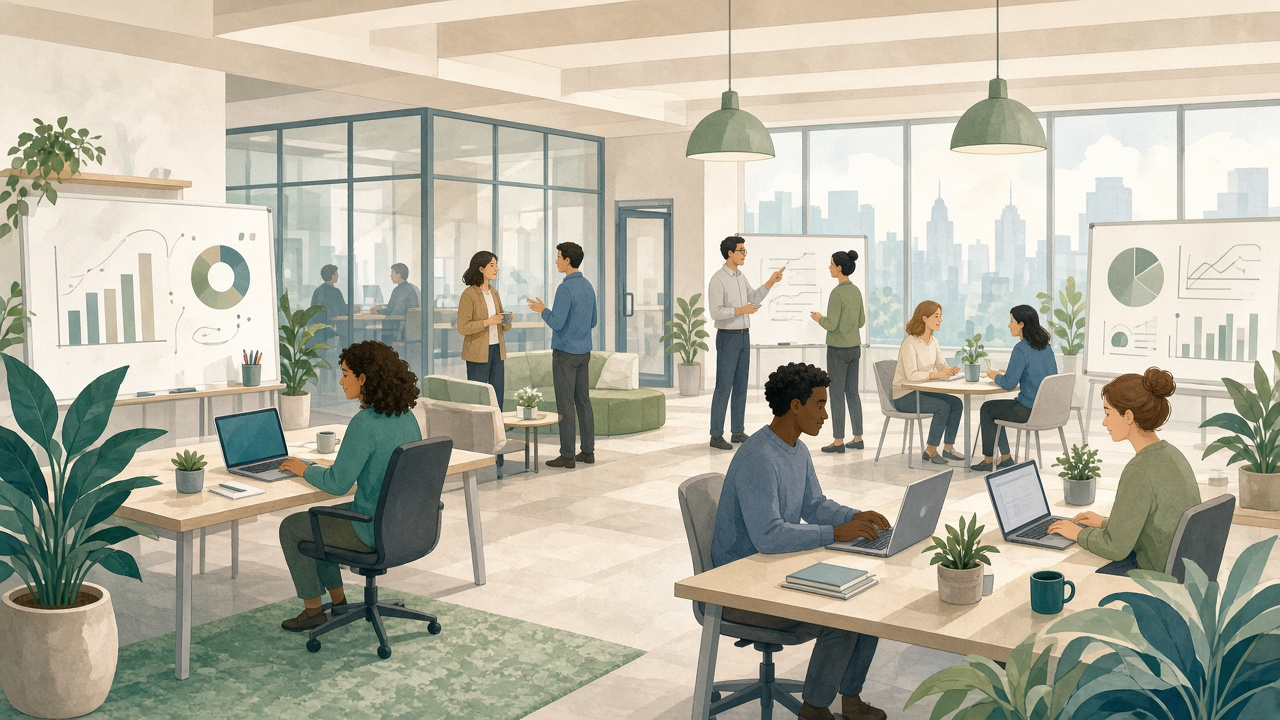
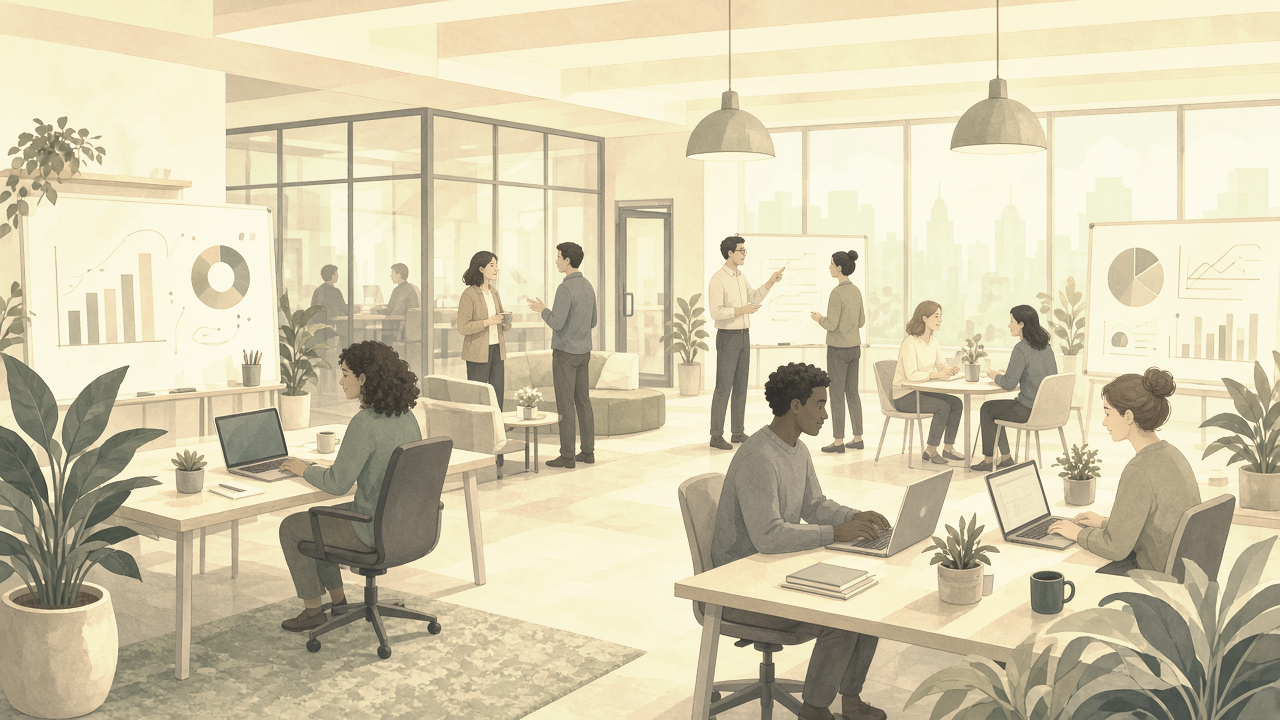
Serve the custom domain from the site root and shift the visual system onto the AetherForge parchment palette so styles, links, and panels load in the same family as the hub.

diff --git a/apps/web/src/styles/global.css b/apps/web/src/styles/global.css
@@ -1,16 +1,26 @@
-/* Visual system adapted from JobFitAndApplicationAssistant:
-   teal accent, Source Serif display, cool office wash, workspace cards. */
+/* Visual system aligned with AetherForge: parchment field, bronze line, teal accent. */
 :root {
   --brand: #0f4c5c;
   --brand-deep: #0c3d4a;
   --ink: #152028;
   --ink-soft: #2c3d47;
   --mute: #5a6b76;
-  --line: #c5d0d6;
-  --paper: #ffffff;
-  --wash: #e8eef1;
-  --wash-warm: #eef3f5;
-  --hero-wash: linear-gradient(180deg, rgba(238, 243, 245, 0.7) 0%, rgba(232, 238, 241, 0.62) 45%, rgba(227, 235, 231, 0.74) 100%);
+  --line: #d8c4aa;
+  --paper: #f6ead8;
+  --paper-raised: #fff6e8;
+  --paper-sunk: #efe2cc;
+  --wash: #f6ead8;
+  --wash-warm: #ecdcc4;
+  --panel: rgba(246, 234, 216, 0.92);
+  --panel-bar: rgba(246, 234, 216, 0.9);
+  --hero-wash: linear-gradient(
+    90deg,
+    rgba(246, 234, 216, 0.22) 0%,
+    rgba(246, 234, 216, 0.84) 14%,
+    rgba(246, 234, 216, 0.9) 50%,
+    rgba(246, 234, 216, 0.84) 86%,
+    rgba(246, 234, 216, 0.22) 100%
+  );
   --hero-glow: none;
   --accent: var(--brand);
   --accent-deep: var(--brand-deep);
@@ -98,7 +108,7 @@ main,
   top: 0;
   z-index: 20;
   min-height: var(--header-h);
-  background: rgba(238, 243, 245, 0.86);
+  background: var(--panel-bar);
   border-bottom: 1px solid color-mix(in srgb, var(--line) 80%, transparent);
   backdrop-filter: blur(12px);
 }
@@ -196,9 +206,11 @@ main,
 .brand-logo {
   width: 2.15rem;
   height: 2.15rem;
-  border-radius: 0.4rem;
+  border-radius: 0.55rem;
   object-fit: cover;
   flex-shrink: 0;
+  background: #e6ca98;
+  box-shadow: 0 0 0 1px #b89260;
 }
 
 .site-header .brand:hover .brand-name {
@@ -242,7 +254,7 @@ main.wide {
   margin: 0;
   padding: 2rem clamp(1rem, 4vw, 2.5rem);
   border-top: 1px solid var(--line);
-  background: rgba(238, 243, 245, 0.86);
+  background: var(--panel-bar);
   backdrop-filter: blur(12px);
   font-family: var(--font-body);
   font-size: 0.85rem;
@@ -302,7 +314,7 @@ h3 {
   width: 100%;
   padding: 1.5rem 1.75rem 1.65rem;
   text-align: left;
-  background: rgba(255, 255, 255, 0.85);
+  background: var(--panel);
   border: 1px solid var(--line);
   border-radius: 0.75rem;
   box-shadow: var(--shadow-soft);
@@ -329,7 +341,7 @@ h3 {
 }
 
 .content-panel {
-  background: rgba(255, 255, 255, 0.85);
+  background: var(--panel);
   border: 1px solid var(--line);
   border-radius: 0.75rem;
   box-shadow: var(--shadow-soft);
@@ -374,13 +386,13 @@ h3 {
 }
 
 .btn-ghost {
-  background: #fff;
+  background: var(--paper);
   color: var(--ink);
   border-color: var(--line);
 }
 
 .btn-ghost:hover {
-  background: color-mix(in srgb, var(--line) 22%, white);
+  background: color-mix(in srgb, var(--line) 28%, var(--paper));
   border-color: var(--line);
   color: var(--ink);
 }
@@ -468,7 +480,7 @@ h3 {
 
 .page-stack {
   margin-top: 0;
-  background: rgba(255, 255, 255, 0.85);
+  background: var(--panel);
   border: 1px solid var(--line);
   border-radius: 0.75rem;
   box-shadow: var(--shadow-soft);
@@ -536,7 +548,7 @@ h3 {
   max-width: 100%;
   margin: 1.25rem 0 1rem;
   padding: 0.25rem;
-  background: rgba(255, 255, 255, 0.55);
+  background: rgba(246, 234, 216, 0.55);
   border: 1px solid var(--line);
   border-radius: 0.5rem;
 }
@@ -560,7 +572,7 @@ h3 {
 
 .tab[aria-selected="true"] {
   color: var(--ink);
-  background: #fff;
+  background: var(--paper-raised);
   box-shadow: 0 1px 2px rgba(21, 32, 40, 0.08);
 }
 
@@ -577,7 +589,7 @@ h3 {
 
 .primer-card {
   padding: 1.15rem 1.2rem 1.25rem;
-  background: #f7f9fb;
+  background: var(--paper-sunk);
   border: 1px solid var(--line);
   border-radius: 4px;
 }
@@ -621,7 +633,7 @@ h3 {
 .scenario-col {
   min-width: 0;
   padding: 1rem;
-  background: #f7f9fb;
+  background: var(--paper-sunk);
   border: 1px solid var(--line);
   border-radius: 4px;
 }
@@ -633,7 +645,7 @@ h3 {
 .sut-block {
   margin-bottom: 1.25rem;
   padding: 1rem;
-  background: #f7f9fb;
+  background: var(--paper-sunk);
   border: 1px solid var(--line);
   border-radius: 4px;
 }
@@ -681,8 +693,8 @@ h3 {
 
 .status-missing {
   color: var(--mute);
-  border-color: #cfcfcf;
-  background: #fff;
+  border-color: var(--line);
+  background: var(--paper);
 }
 
 .toolbar {
@@ -715,7 +727,7 @@ h3 {
   margin-top: 1rem;
   padding: 1rem 0 0;
   color: var(--mute);
-  border-top: 1px dashed #cfd6dd;
+  border-top: 1px dashed var(--line);
 }
 
 .ask-box {
@@ -732,7 +744,7 @@ h3 {
   font-size: 1.05rem;
   padding: 1rem 1.1rem;
   color: var(--ink);
-  background: #fff;
+  background: var(--paper-raised);
   border: 1px solid var(--line);
   border-radius: var(--radius);
   resize: vertical;
@@ -777,7 +789,7 @@ h3 {
   font-family: var(--font-body);
   font-size: 0.85rem;
   font-weight: 500;
-  background: rgba(255, 255, 255, 0.7);
+  background: rgba(246, 234, 216, 0.7);
   color: var(--ink);
   border: 1px solid var(--line);
   padding: 0.4rem 0.7rem;
@@ -789,7 +801,7 @@ h3 {
 .chip:hover {
   border-color: var(--brand);
   color: var(--brand);
-  background: #fff;
+  background: var(--paper-raised);
 }
 
 .local-steps {
@@ -1058,7 +1070,7 @@ h3 {
   overflow-x: auto;
   border: 1px solid var(--line);
   border-radius: 0.65rem;
-  background: color-mix(in srgb, #fff 70%, var(--wash));
+  background: var(--panel);
 }
 
 .diagram-frame .mermaid {
@@ -1129,6 +1141,12 @@ h3 {
 }
 
 @media (max-width: 640px) {
+  .page-bg {
+    background-image:
+      linear-gradient(180deg, rgba(246, 234, 216, 0.86) 0%, rgba(236, 220, 196, 0.8) 100%),
+      var(--page-bg-image);
+  }
+
   .scenario-list a,
   .release-list a,
   .gate-list li {

diff --git a/apps/web/src/lib/release.ts b/apps/web/src/lib/release.ts
@@ -9,6 +9,24 @@ export type Release = {
 /** Newest first. Header shows RELEASES[0]; bump + prepend on every merge to main. */
 export const RELEASES: Release[] = [
   {
+    version: "0.4.3",
+    date: "2026-10-03",
+    title: "Parchment palette shared with AetherForge",
+    notes: [
+      "The logo uses the AetherForge parchment tile and dark bronze mark instead of crimson and white.",
+      "The page background and the panels behind text use the same parchment field as AetherForge.",
+    ],
+  },
+  {
+    version: "0.4.2",
+    date: "2026-10-03",
+    title: "Custom domain serves the site root",
+    notes: [
+      "Styles, the logo, and in-app links load on https://test-play-ground.aathira-services.com.",
+      "The production build no longer prefixes URLs with /TestingRosettaStone. A custom domain serves this project site at the domain root, so that prefix returned 404s.",
+    ],
+  },
+  {
     version: "0.4.1",
     date: "2026-10-02",
     title: "Review agent for maintainers",

diff --git a/apps/web/src/lib/base.ts b/apps/web/src/lib/base.ts
@@ -1,4 +1,4 @@
-/** Prefix a site-root path with Astro's base (needed for GitHub project Pages). */
+/** Prefix a site-root path with Astro's base. Production uses `/`. */
 export function withBase(path = "") {
   const base = import.meta.env.BASE_URL || "/";
   const normalizedBase = base.endsWith("/") ? base : `${base}/`;

diff --git a/docs/plan/ARCHITECTURE.md b/docs/plan/ARCHITECTURE.md
@@ -141,7 +141,7 @@ TDD (`unit.tdd-red-green`) and BDD (`unit.bdd-given-when-then`) always ship stor
 7. `GET /architecture` — `loadArchitecture()` over this file’s logical and physical sections.
 8. `GET /releases` and `/releases/{version}` — comments from `apps/web/src/lib/release.ts`.
 
-Production URLs sit under `/TestingRosettaStone` (`GITHUB_PAGES=1`). `withBase()` prefixes every in-app link.
+Production URLs are rooted at https://test-play-ground.aathira-services.com (`GITHUB_PAGES=1` sets `site`; `base` is `/`). `withBase()` prefixes every in-app link.
 
 ## UI design
 
@@ -149,14 +149,14 @@ Custom CSS — not a third-party kit.
 
 | Token | Value |
 |-------|--------|
-| Background | `#e8eef1` + wash over `/images/office-bg.png` (cover, fixed, center top) |
+| Background | `#f6ead8` parchment veil over a warm `/images/office-bg.png` (cover, fixed, center top) |
 | Ink / muted | `#152028` / `#5a6b76` |
 | Accent / hover | `#0f4c5c` / `#0c3d4a` |
-| Line | `#c5d0d6` |
+| Line | `#d8c4aa` |
 | Display / body | Source Serif 4 / Source Sans 3 (Google Fonts) |
 | Mono | IBM Plex Mono |
-| Cards | `white/85`, 12px radius, soft shadow, light backdrop blur |
-| Header | Sticky, `rgba(238,243,245,0.86)`, blur; Scenarios, Ask AI, Vision, Architecture, Quality, Run locally; release chip |
+| Cards | `rgba(246,234,216,0.92)`, 12px radius, soft shadow, light backdrop blur |
+| Header | Sticky, `rgba(246,234,216,0.9)`, blur; Scenarios, Ask AI, Vision, Architecture, Quality, Run locally; release chip |
 
 Layout: content max ~48rem; scenario pages can go wide (~64rem).
 
@@ -185,7 +185,7 @@ There is no live `/api/run`. A red example fails the job; a missing results arti
 ## Deployment
 
 - **Local:** `npm install`, Playwright Chromium, k6, `pip install pytest httpx pytest-bdd`, then `npm run dev` on port 4321
-- **Production:** GitHub Pages from the `apps/web/dist` artifact (`site` + `base` set when `GITHUB_PAGES=1`)
+- **Production:** GitHub Pages from the `apps/web/dist` artifact. `GITHUB_PAGES=1` sets `site` to the custom domain; `base` stays `/` because that domain serves the project site at its root. `apps/web/public/CNAME` keeps the domain on each deploy.
 - No application database. The hosted site is a snapshot of the last green `main` build.
 
 ## Design decisions

diff --git a/README.md b/README.md
@@ -39,7 +39,7 @@ Absolute path if you use that folder:
 | AI | Corpus FAQ + scenario keyword matcher (no API key) |
 | Results panel | CI-cached stdout/stderr beside each scenario (`npm run capture:results`) |
 | CI | GitHub Actions (Node 24): validate, `npm test` (unit + HTTP + UX + perf + security), capture results, build — explained on `/quality` |
-| Hosting | GitHub Pages only after that CI job succeeds on `main` — https://jmaret.github.io/TestingRosettaStone/ |
+| Hosting | GitHub Pages only after that CI job succeeds on `main` — https://test-play-ground.aathira-services.com/ |
 
 ## Scripts
 
@@ -55,7 +55,7 @@ Absolute path if you use that folder:
 
 Living product contract and architecture map: [`docs/plan/VISION.md`](docs/plan/VISION.md) and [`docs/plan/ARCHITECTURE.md`](docs/plan/ARCHITECTURE.md) (also `/vision` and `/architecture` on the site). Other planning notes remain in [`docs/plan/`](docs/plan/). Local clone help: [`docs/LOCAL_SETUP.md`](docs/LOCAL_SETUP.md).
 
-Live site (after enabling Pages in repo settings): https://jmaret.github.io/TestingRosettaStone/
+Live site: https://test-play-ground.aathira-services.com/
 
 ## License
 

diff --git a/docs/LOCAL_SETUP.md b/docs/LOCAL_SETUP.md
@@ -21,7 +21,7 @@ npm run dev
 
 Then open http://localhost:4321 — scenario pages show code beside the last cached run output. UX examples need Playwright Chromium (command above); Cypress installs its own runner with `npm install`. Performance examples need the k6 binary (`brew install k6`); Artillery and Autocannon come from npm. BDD examples need `pytest-bdd`; Cucumber.js installs with `npm install`.
 
-The public site deploys from `main` to GitHub Pages only after CI `npm test` and `capture:results` succeed: https://jmaret.github.io/TestingRosettaStone/ — the `/quality` page lists those gates. `/vision` and `/architecture` summarize the living docs in `docs/plan/`.
+The public site deploys from `main` to GitHub Pages only after CI `npm test` and `capture:results` succeed: https://test-play-ground.aathira-services.com/ — the `/quality` page lists those gates. `/vision` and `/architecture` summarize the living docs in `docs/plan/`.
 
 ### Open in Cursor
 

diff --git a/docs/plan/VISION.md b/docs/plan/VISION.md
@@ -93,10 +93,14 @@ Do not claim or implement:
 
 - The site compares frameworks; it must not imply it is the official documentation for any of them.
 - Answers on Ask AI must cite this repo (FAQ or scenario ids) or refuse.
-- GitHub project Pages requires a `/TestingRosettaStone` base path in production.
+- The public site is served at the custom-domain root (`https://test-play-ground.aathira-services.com`). Production `base` is `/`.
 - Cached Results logs are only as fresh as the last successful `capture:results` on `main`.
 
 ## Changelog
+
+### 2026-10-03 — Custom domain at the site root
+
+- Production no longer prefixes URLs with `/TestingRosettaStone`. That prefix 404s CSS, images, and links on the custom domain.
 
 ### 2026-09-27 — Vision and Architecture pages
 
